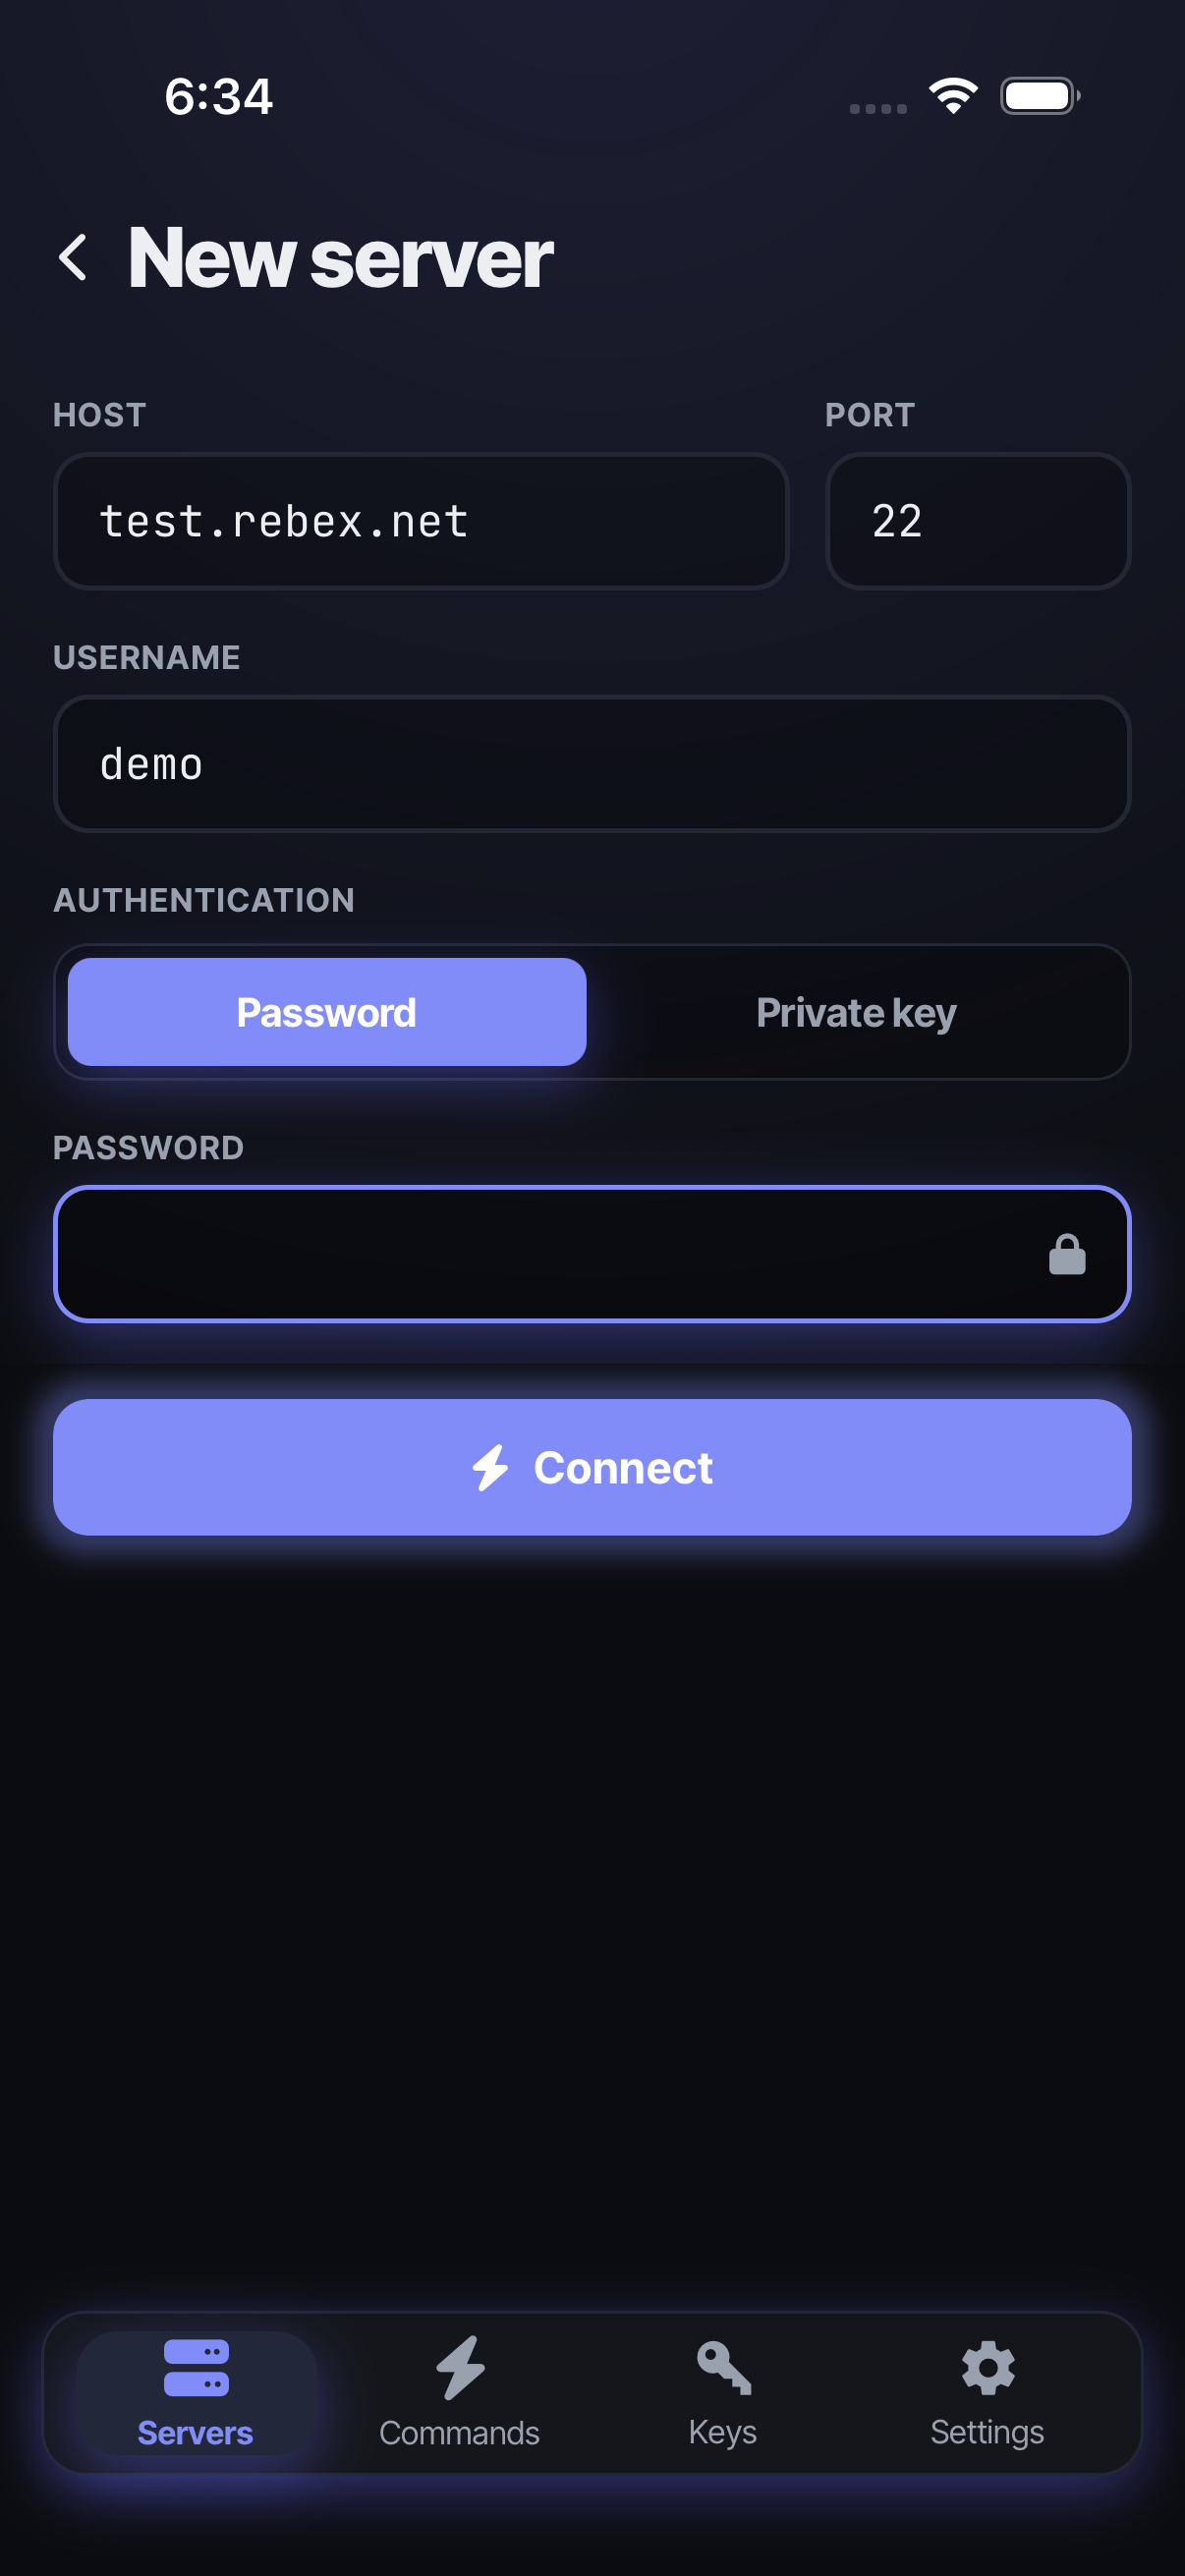
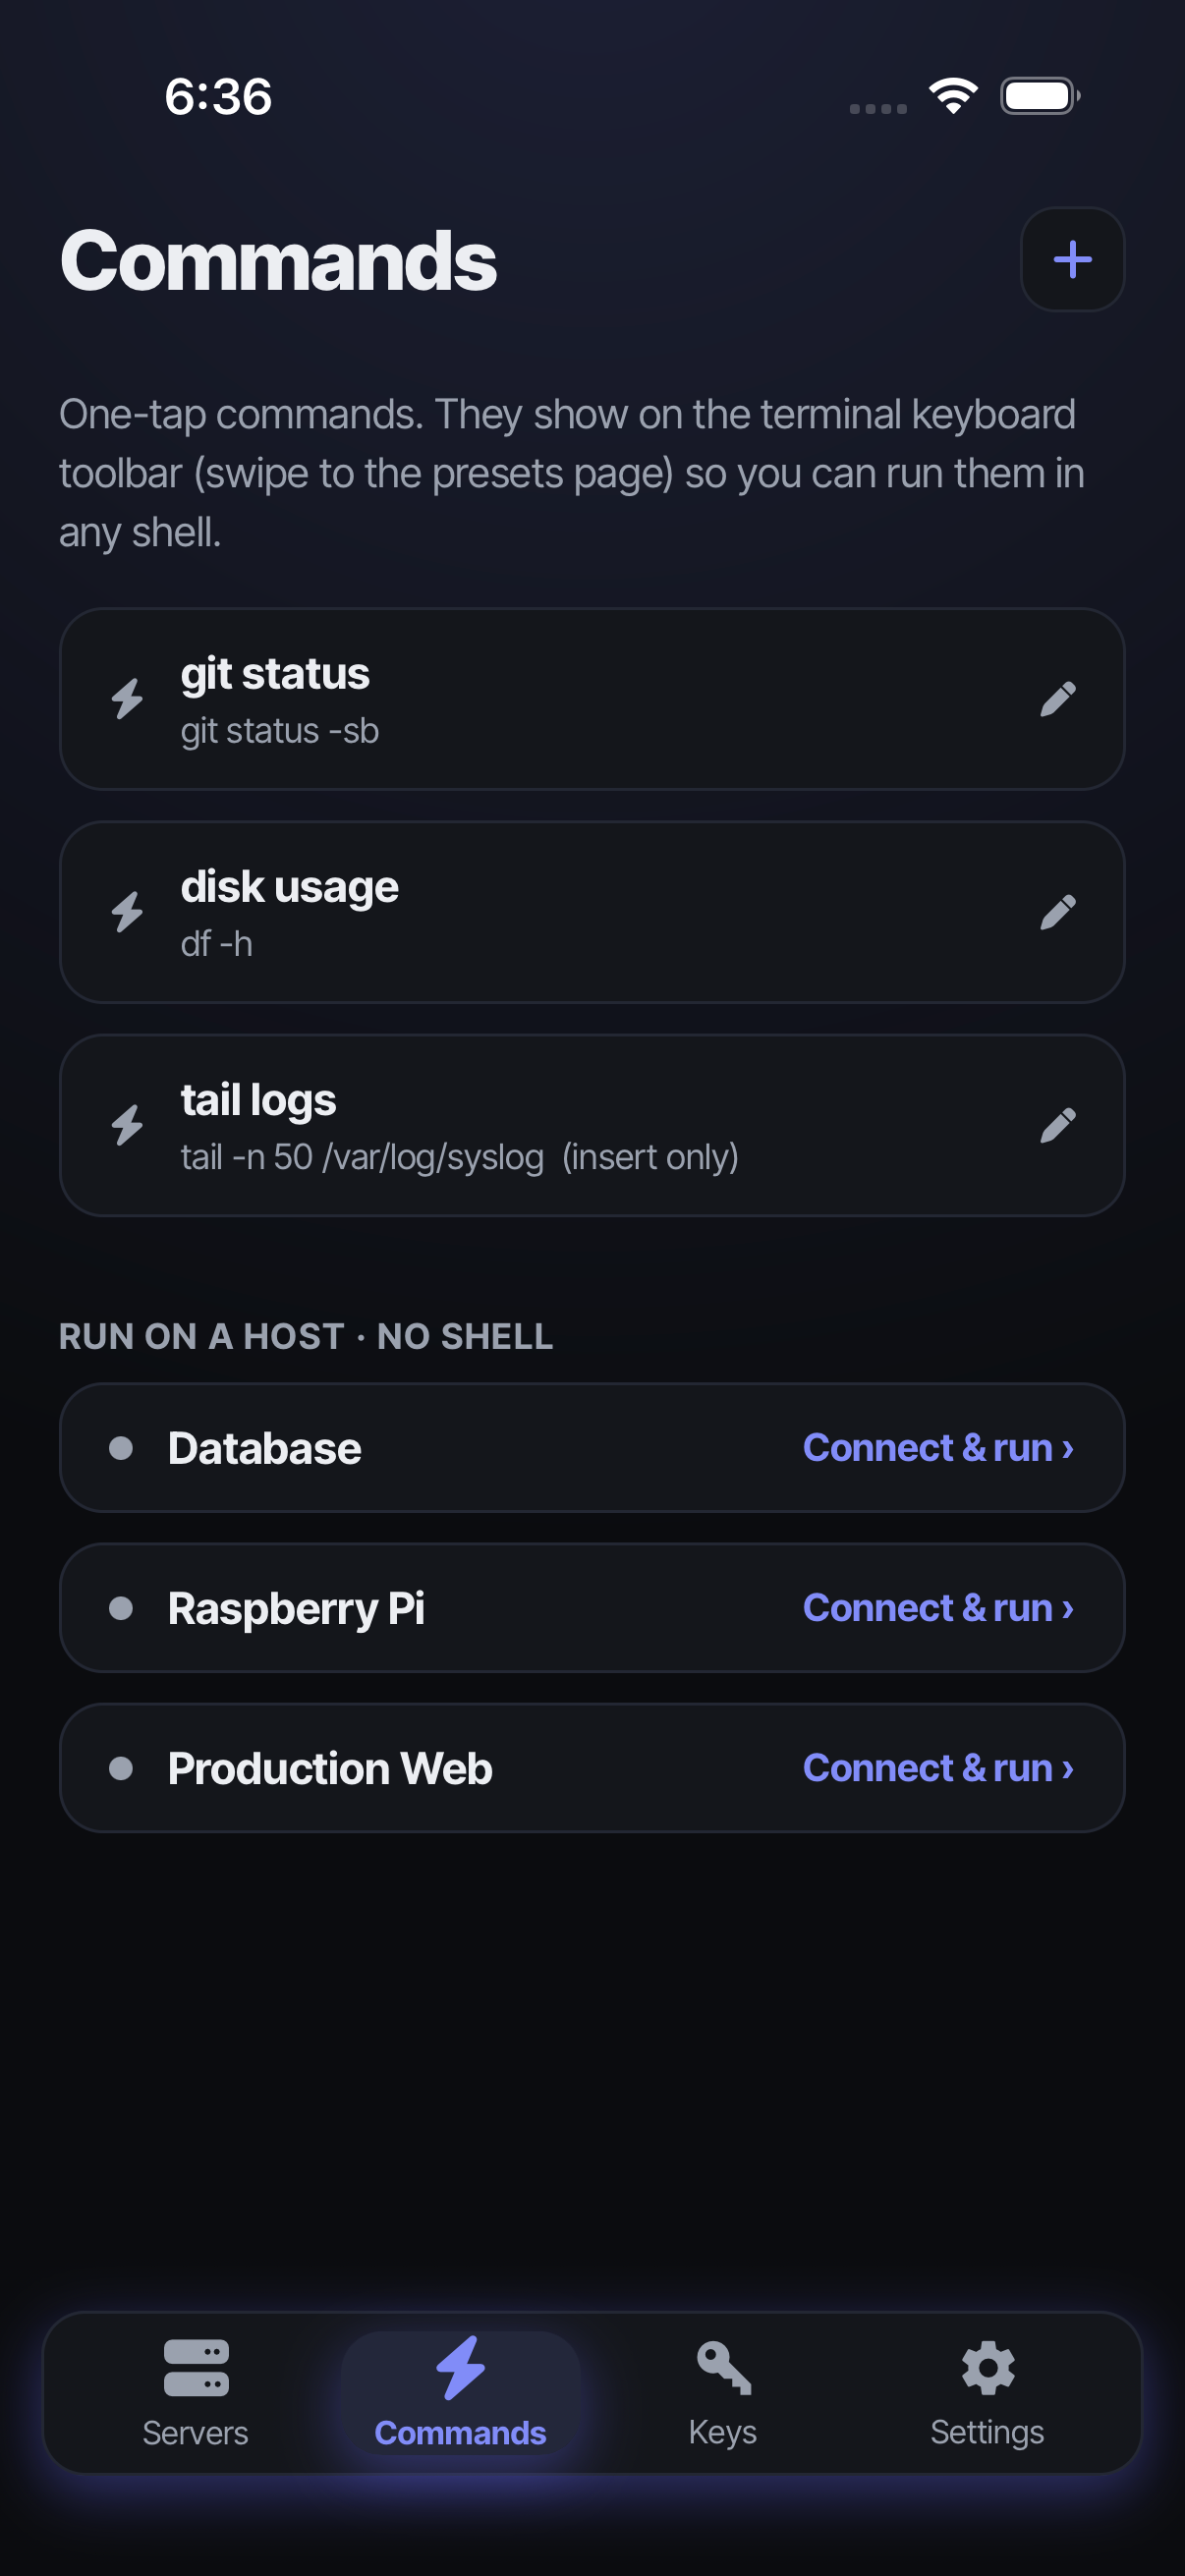
feat(mobile): effect-ts maestro screenshot pipeline + refreshed screenshots
- Add apps/mobile/scripts/screenshots.ts: one-command pipeline (Release seed
  build -> iOS keychain reset -> Maestro) using effect/unstable/cli + process +
  Path under @user/platform-bun.
- Add test/e2e/screenshots.yml capturing Servers/Commands/Keys/Settings + the
  connect form; EXPO_PUBLIC_SCREENSHOT_SEED seeds demo data (screenshot-seed.ts).
- Replace stale hand-placed PNGs with a real iOS set; point README + website at
  them.
- Document the pipeline, real-host seeding (secretspec), and gotchas in
  docs/projects/future/automated-screenshots-improvements.md.

diff --git a/apps/web/src/routes/index.tsx b/apps/web/src/routes/index.tsx
@@ -3,8 +3,8 @@ import GithubMark from '@fressh/assets/third-party-brands/github-mark/github-mar
 import GooglePlayBadge from '@fressh/assets/third-party-brands/google-play/GetItOnGooglePlay_Badge_Web_color_English.svg';
 import npmLogoRed from '@fressh/assets/third-party-brands/npm-js/npm-logo-red.png';
 import mobileAppIconDark from '@fressh/assets/mobile-app-icon-dark.png';
-import serversAndroidScreenshot from '@fressh/assets/mobile-screenshots/servers-android.png';
-import terminalAndroidScreenshot from '@fressh/assets/mobile-screenshots/terminal-android.png';
+import serversScreenshot from '@fressh/assets/mobile-screenshots/servers-ios.png';
+import keysScreenshot from '@fressh/assets/mobile-screenshots/keys-ios.png';
 import { createFileRoute } from '@tanstack/react-router';
 import type { ReactNode } from 'react';
 
@@ -180,14 +180,14 @@ function HomePage() {
 					<div className='mx-auto max-w-5xl rounded-[2.5rem] border border-gray-200/70 bg-white/80 px-8 py-12 shadow-xl shadow-emerald-500/5 backdrop-blur dark:border-white/10 dark:bg-white/5 dark:shadow-emerald-500/10'>
 						<div className='flex flex-col items-center gap-8 lg:flex-row lg:justify-center'>
 							<img
-								src={serversAndroidScreenshot}
+								src={serversScreenshot}
 								alt='Servers tab screenshot'
 								className='w-full max-w-xs rounded-3xl border border-white/60 shadow-xl ring-1 shadow-emerald-500/15 ring-emerald-500/10 dark:border-white/10 dark:ring-white/10'
 								loading='lazy'
 							/>
 							<img
-								src={terminalAndroidScreenshot}
-								alt='Terminal screenshot'
+								src={keysScreenshot}
+								alt='Keys tab screenshot'
 								className='w-full max-w-xs rounded-3xl border border-white/60 shadow-xl ring-1 shadow-slate-900/10 ring-slate-900/10 dark:border-white/10 dark:ring-white/10'
 								loading='lazy'
 							/>

diff --git a/apps/mobile/scripts/screenshots.ts b/apps/mobile/scripts/screenshots.ts
@@ -82,7 +82,7 @@ const resolveDevice = (platform: Platform, override: Option.Option<string>) =>
 			const out = yield* runString(
 				ChildProcess.make('xcrun', ['simctl', 'list', 'devices', 'booted']),
 			);
-			const udid = (/\(([0-9A-F]{8}-[0-9A-F-]{27})\)/.exec(out))?.[1];
+			const udid = /\(([0-9A-F]{8}-[0-9A-F-]{27})\)/.exec(out)?.[1];
 			if (!udid) {
 				return yield* new ScreenshotError({
 					message:

diff --git a/docs/projects/future/automated-screenshots-improvements.md b/docs/projects/future/automated-screenshots-improvements.md
@@ -159,7 +159,12 @@ is the easy-but-wrong shortcut of putting real hosts/passwords behind the same
   now prints a pre-flight warning if 5600 is occupied, but it can't auto-resolve it — free
   the port (quit ActivityWatch) if a run stalls at startup. Worth a note in CONTRIBUTING.
 - **`hideKeyboard` is unsupported** by the app's custom keyboard handling on iOS; the flow
-  dismisses the keyboard by tapping the non-interactive screen title instead.
+  dismisses the keyboard by tapping the non-interactive screen title instead — and even then
+  iOS may keep a Passwords-AutoFill accessory up. Because an open keyboard **covers the bottom
+  tab bar**, any tab navigation *after* the connect form silently taps nothing. The flow works
+  around this by ordering **tabs first, the keyboard-opening connect form last**. A real fix
+  would make the form reliably dismissable (or disable iOS password AutoFill in the screenshot
+  build).
 - **Android is unvalidated.** The pipeline is written for both platforms but has only been
   run on the iOS simulator. Android `testID`s map differently (resource-id / content-desc),
   so the placeholder-selector workarounds may behave differently and want a pass.

diff --git a/README.md b/README.md
@@ -21,9 +21,9 @@ simple while supporting powerful features.
 
 ### Screenshots
 
-![Servers tab](./packages/assets/mobile-screenshots/servers-android.png)
-
-![Terminal](./packages/assets/mobile-screenshots/terminal-android.png)
+![Servers tab](./packages/assets/mobile-screenshots/servers-ios.png)
+![New connection](./packages/assets/mobile-screenshots/connect-ios.png)
+![Keys tab](./packages/assets/mobile-screenshots/keys-ios.png)
 
 > Regenerate these with `bun run --filter @fressh/mobile screenshots` — see
 > [Screenshots](#screenshots-automation) below.